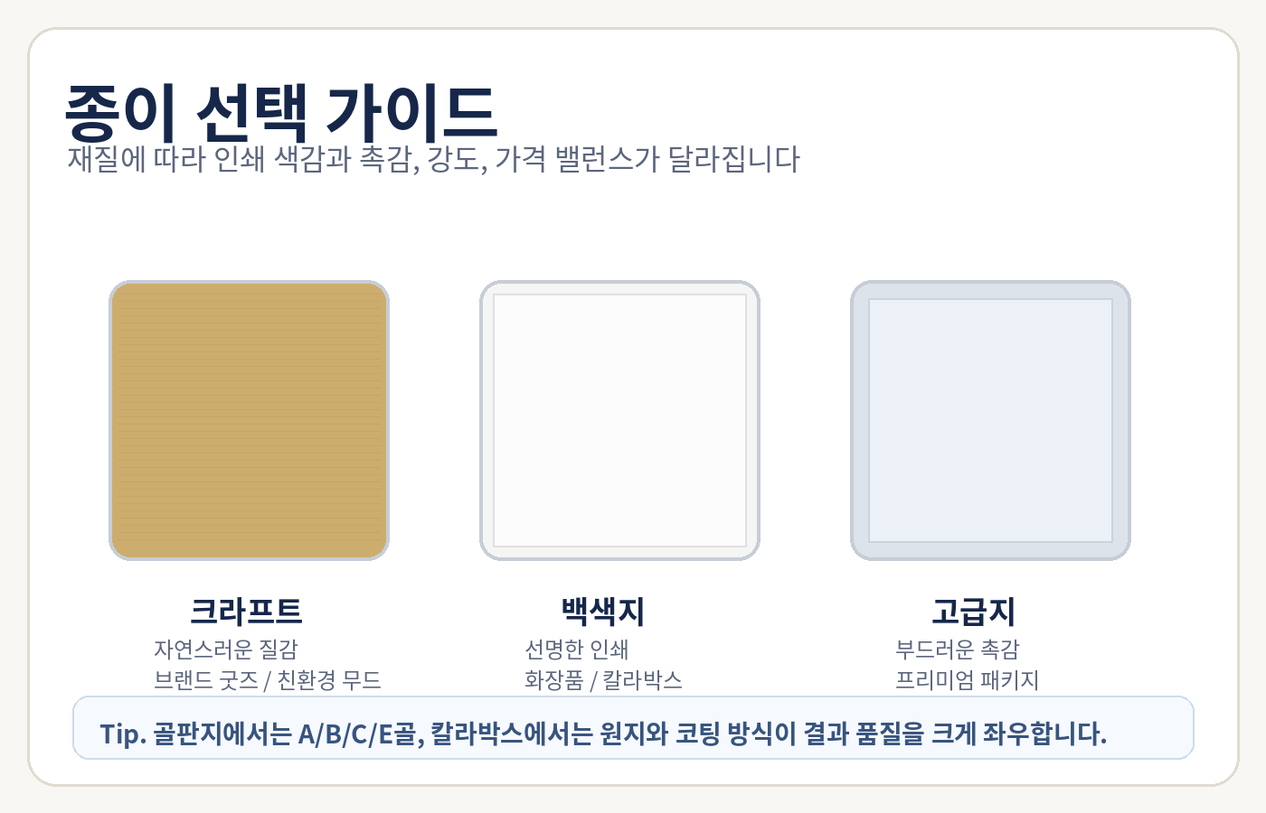
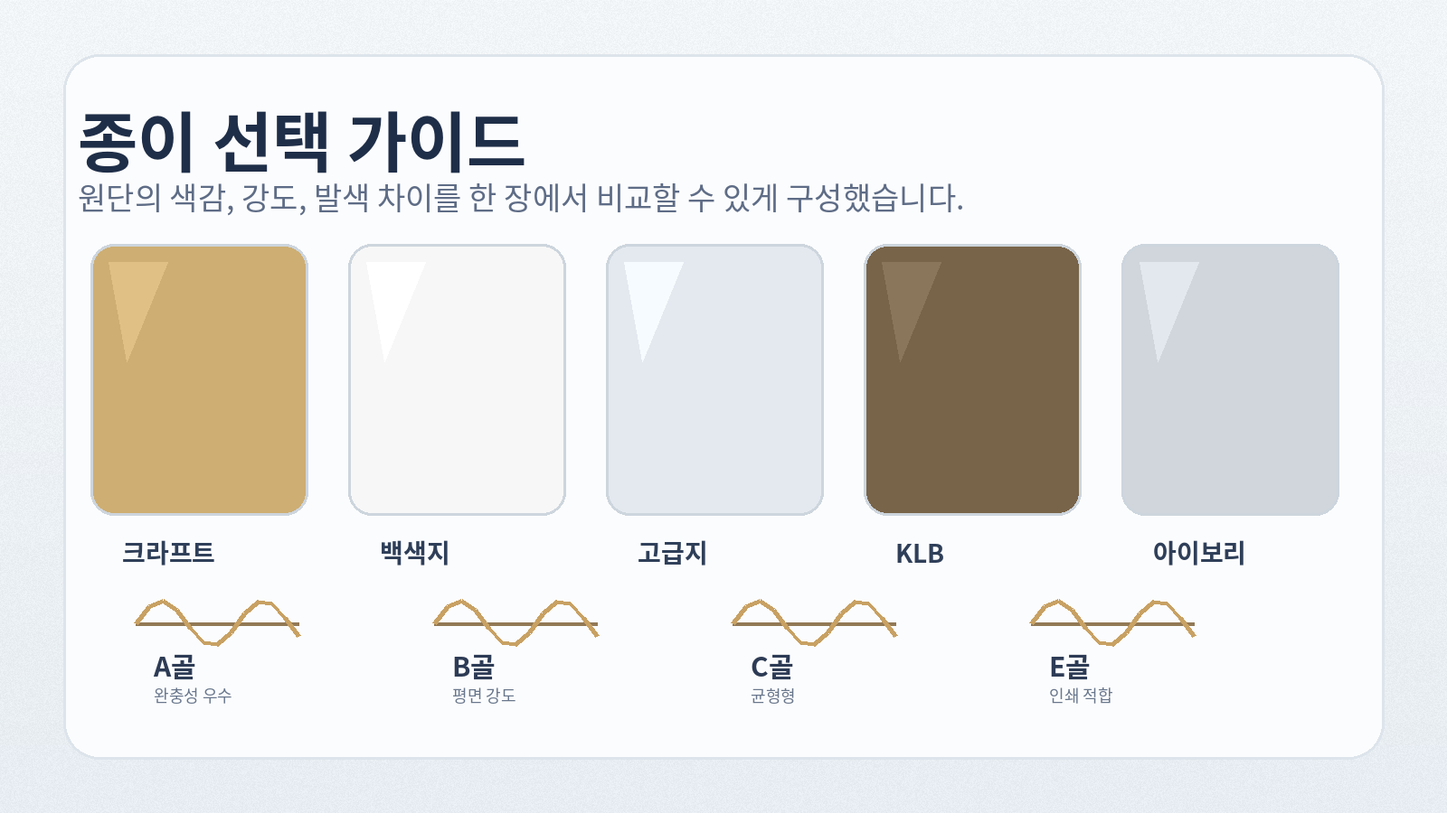
v41

Changed region(s): [[0.0, 0.0311, 0.9829, 0.9956]]

diff --git a/guide-structure.html b/guide-structure.html
@@ -1,1 +1,11 @@
-<!DOCTYPE html><html lang="ko"><head><meta charset="UTF-8"><meta name="viewport" content="width=device-width,initial-scale=1"><title>박스 구조 종류 | 에스디컴퍼니 고객지원</title><meta name="description" content="골판지 박스 구조 종류와 FEFCO 개념, 일반형·뚜껑형·다이컷 구조의 차이를 에스디컴퍼니 시선으로 정리한 가이드"><meta name="keywords" content="골판지 박스 구조, 박스 구조 종류, FEFCO 박스 구조, 다이컷 박스, 택배박스 구조"><link rel="preconnect" href="https://fonts.googleapis.com"><link rel="preconnect" href="https://fonts.gstatic.com" crossorigin><link href="https://fonts.googleapis.com/css2?family=Noto+Sans+KR:wght@400;500;700;800;900&display=swap" rel="stylesheet"><link rel="stylesheet" href="styles.css"><script type="application/ld+json">{"@context":"https://schema.org","@type":"Article","headline":"박스 구조 종류","description":"골판지 박스 구조 종류와 FEFCO 개념, 일반형·뚜껑형·다이컷 구조의 차이를 정리한 가이드","inLanguage":"ko-KR","publisher":{"@type":"Organization","name":"에스디컴퍼니"}}</script><script src="config/site-config.js"></script><script src="js/common.js"></script></head><body><main class="section guide-page"><div class="container"><h2>박스 구조 종류</h2><p class="guide-intro">박스 구조는 모양보다 먼저 <strong>제품 무게, 적재 방식, 배송 환경, 개봉 경험</strong>을 기준으로 보는 편이 실무에 더 가깝습니다. 아래 내용은 처음 주문하는 분도 빠르게 감을 잡을 수 있도록 상담형 말투로 다시 정리한 버전입니다.</p><nav class="guide-topnav"><a href="guide-structure.html" class="active">박스 구조 종류</a><a href="guide-paper.html">종이 선택 가이드</a><a href="guide-process.html">패키지 제작 과정</a><a href="support.html">고객지원 메인</a></nav><div class="guide-hero-card"><div class="hero-icon" style="font-size:42px">📦</div><div class="guide-callout" style="margin:14px 0 18px">전 세계 포장 업계에서는 <strong>FEFCO 코드</strong>라는 국제 분류 체계를 많이 참고합니다. 다만 실제 상담에서는 코드보다 “택배용인지, 진열용인지, 선물형인지”를 먼저 정리하는 쪽이 훨씬 이해가 쉽습니다.</div><img src="assets/guides/guide-structure.png" alt="골판지 박스 구조 종류 설명 이미지"></div><section class="guide-article"><article class="guide-section"><h3>골판지 박스 구조 안내</h3><p>골판지 박스는 제품의 크기, 무게, 배송 방식에 따라 다양한 구조로 제작됩니다. 특히 물류 중심인지, 매장 진열까지 고려하는지, 또는 고급 선물 포장처럼 개봉 경험이 중요한지에 따라 추천 구조가 완전히 달라집니다. 그래서 박스는 단순히 네모 상자를 고르는 일이 아니라, <strong>보호와 표현 방식을 동시에 설계하는 과정</strong>이라고 보는 것이 맞습니다.</p></article><article class="guide-section"><h3>1. 일반형 박스 (RSC / Regular Slotted Container)</h3><p>가장 많이 쓰이는 표준 구조입니다. 상하단 날개가 맞물려 접히는 전형적인 택배형 상자로, 비용과 범용성의 균형이 좋은 편입니다.</p><ul><li><strong>특징</strong>: 상하단 플랩이 접히는 가장 기본적인 구조</li><li><strong>장점</strong>: 제작 단가가 비교적 안정적이고 다양한 규격 대응이 쉽습니다.</li><li><strong>사용 예</strong>: 택배박스, 쇼핑몰 포장박스, 일반 물류 포장</li></ul></article><article class="guide-section"><h3>2. 풀오버랩 박스 (FOL)</h3><p>일반형보다 상단 덮개가 넓게 겹쳐져 상부 강도가 좋은 구조입니다. 눌림이나 적재 하중을 조금 더 신경 써야 하는 제품군에 잘 맞습니다.</p><ul><li><strong>특징</strong>: 상단 플랩이 서로 겹쳐져 압축 강도가 올라갑니다.</li><li><strong>장점</strong>: 무거운 제품이나 장거리 운송에 유리합니다.</li><li><strong>사용 예</strong>: 전자제품, 공업 부품, 수출 포장</li></ul></article><article class="guide-section"><h3>3. 하프 슬로티드 박스 (HSC)</h3><p>뚜껑이 없는 오픈형 구조입니다. 제품을 담고 빼는 일이 잦거나 진열, 보관 효율이 중요한 경우 많이 선택됩니다.</p><ul><li><strong>특징</strong>: 상단 개방형 구조</li><li><strong>장점</strong>: 제품 출입이 쉬워 작업성이 좋습니다.</li><li><strong>사용 예</strong>: 농산물 박스, 과일 박스, 물류 트레이</li></ul></article><article class="guide-section"><h3>4. 텔레스코프 박스 (뚜껑형 박스)</h3><p>상·하부가 분리되는 2피스 구조입니다. 배송용보다는 선물 포장, 의류 포장, 프리미엄 굿즈처럼 완성도와 개봉 경험을 중요하게 보는 패키지에서 자주 사용됩니다.</p><ul><li><strong>특징</strong>: 뚜껑이 덮이는 구조로 마감 인상이 깔끔합니다.</li><li><strong>장점</strong>: 일반 물류 박스보다 한층 정돈된 인상을 줍니다.</li><li><strong>사용 예</strong>: 선물박스, 의류 박스, 프리미엄 패키지</li></ul></article><article class="guide-section"><h3>5. 다이컷 박스 (맞춤형 구조)</h3><p>칼날 금형으로 원하는 형태를 절개해 조립하는 구조입니다. 손잡이, 끼움 구조, 진열용 오픈 면, 제품 고정 탭 등 맞춤 요소를 자유롭게 넣기 좋습니다.</p><ul><li><strong>특징</strong>: 자유로운 형태 설계 가능</li><li><strong>장점</strong>: 조립 편의성과 디자인 자유도가 높습니다.</li><li><strong>사용 예</strong>: 피자박스, 쇼핑몰 패키지, 제품 디스플레이 박스</li></ul></article><article class="guide-section"><h3>실무에서 구조를 고를 때 먼저 보는 기준</h3><table class="info-table"><tr><th>배송형</th><td>택배, 물류, 적재 효율이 중요하면 일반형 또는 오버랩 계열을 우선 검토합니다.</td></tr><tr><th>진열형</th><td>상단 개방, 손쉬운 진열, 제품 노출이 필요하면 HSC나 다이컷 구조를 봅니다.</td></tr><tr><th>프리미엄형</th><td>브랜드 경험과 개봉감을 살려야 하면 뚜껑형, 싸바리형, 맞춤형 구조를 고려합니다.</td></tr><tr><th>맞춤형</th><td>제품 형상이 특이하거나 별도 고정 구조가 필요하면 다이컷 설계가 유리합니다.</td></tr></table></article><article class="guide-section"><h3>검색 노출에 유리한 키워드</h3><div class="kwd-list"><span class="tag">골판지 박스 구조</span><span class="tag">박스 구조 종류</span><span class="tag">FEFCO 박스 구조</span><span class="tag">택배박스 구조</span><span class="tag">다이컷 박스</span><span class="tag">뚜껑형 박스</span></div></article></section></div></main><script>mountLayout("support.html")</script></body></html>
+<!DOCTYPE html><html lang="ko"><head><meta charset="UTF-8"><meta name="viewport" content="width=device-width,initial-scale=1"><title>박스 구조 종류 | 에스디컴퍼니 고객지원</title><meta name="description" content="골판지 박스 구조 종류와 FEFCO 개념, 일반형·뚜껑형·다이컷 구조의 차이를 에스디컴퍼니 방식으로 정리한 가이드"><meta name="keywords" content="골판지 박스 구조, 박스 구조 종류, FEFCO 박스 구조, 다이컷 박스, 택배박스 구조"><link rel="preconnect" href="https://fonts.googleapis.com"><link rel="preconnect" href="https://fonts.gstatic.com" crossorigin><link href="https://fonts.googleapis.com/css2?family=Noto+Sans+KR:wght@400;500;700;800;900&display=swap" rel="stylesheet"><link rel="stylesheet" href="styles.css"><script type="application/ld+json">{"@context":"https://schema.org","@type":"Article","headline":"박스 구조 종류","description":"골판지 박스 구조 종류와 FEFCO 개념, 일반형·뚜껑형·다이컷 구조의 차이를 에스디컴퍼니 방식으로 정리한 가이드","inLanguage":"ko-KR","publisher":{"@type":"Organization","name":"에스디컴퍼니"}}</script><script src="config/site-config.js"></script><script src="js/common.js"></script></head><body><main class="section guide-page"><div class="container"><h2>박스 구조 종류</h2><p class="guide-intro">처음 박스를 맡길 때 가장 먼저 고민되는 것은 구조입니다. 배송용인지, 진열용인지, 선물형인지에 따라 적합한 방식이 달라지기 때문에 모양보다 사용 장면부터 보는 것이 훨씬 정확합니다.</p><nav class="guide-topnav"><a href="guide-structure.html" class="active">박스 구조 종류</a><a href="guide-paper.html" >종이 선택 가이드</a><a href="guide-process.html" >패키지 제작 과정</a><a href="support.html">고객지원 메인</a></nav><div class="guide-hero-card"><div class="guide-callout" style="margin:0 0 18px">골판지 박스 구조는 단순한 모양 분류가 아니라 <strong>보호·적재·개봉 경험</strong>을 함께 설계하는 과정입니다. 아래 정리는 실무 상담에서 가장 많이 사용하는 설명 순서대로 재구성했습니다.</div><img src="assets/guides/guide-structure.png" alt="박스 구조 종류 설명 이미지"></div><section class="guide-article">
+<article class="guide-section"><h3>골판지 박스 구조 안내</h3><p>골판지 박스는 제품의 크기, 무게, 배송 방식에 따라 구조를 달리 설계합니다. 실제 현장에서는 단순히 네모 상자를 고르는 것이 아니라, <strong>얼마나 안전하게 도착해야 하는지, 어떤 방식으로 진열될지, 고객이 어떻게 개봉할지</strong>를 함께 보게 됩니다. 그래서 같은 크기의 제품도 구조 선택이 달라질 수 있습니다.</p><p>업계에서는 FEFCO 코드라는 국제 분류 체계를 참고하지만, 처음 주문하는 분께는 코드보다 <strong>사용 장면 중심</strong>으로 보는 편이 이해가 쉽습니다. 아래 구조는 상담 현장에서 설명하는 순서대로 다시 정리한 버전입니다.</p></article>
+<article class="guide-section"><h3>1. 일반형 박스 (RSC / Regular Slotted Container)</h3><p>가장 많이 쓰이는 표준 구조입니다. 상하단 날개가 맞물려 접히는 전형적인 택배형 상자로, 비용과 범용성의 균형이 좋습니다.</p><ul><li><strong>특징</strong>: 상하단 날개가 접히는 기본 구조</li><li><strong>강점</strong>: 제작 단가가 비교적 안정적이고 규격 확장이 쉽습니다.</li><li><strong>주로 쓰는 곳</strong>: 택배박스, 쇼핑몰 출고용 박스, 일반 물류 포장</li></ul></article>
+<article class="guide-section"><h3>2. 풀오버랩 박스 (FOL)</h3><p>일반형보다 상단 플랩이 겹쳐 상부 강도가 더 필요한 제품군에 잘 맞는 구조입니다. 눌림이 걱정되거나 적재가 많은 환경에서 자주 선택됩니다.</p><ul><li><strong>특징</strong>: 상단 플랩이 서로 겹치며 압축 강도를 높입니다.</li><li><strong>강점</strong>: 무게감 있는 제품, 장거리 운송 포장에 유리합니다.</li><li><strong>주로 쓰는 곳</strong>: 전자제품, 공업 부품, 수출 포장</li></ul></article>
+<article class="guide-section"><h3>3. 하프 슬로티드 박스 (HSC)</h3><p>뚜껑이 없는 오픈형 구조입니다. 제품을 담고 꺼내는 일이 많거나 진열, 보관 효율이 중요한 경우 많이 사용합니다.</p><ul><li><strong>특징</strong>: 상단이 열린 구조</li><li><strong>강점</strong>: 작업성이 좋고 내용물을 빠르게 확인할 수 있습니다.</li><li><strong>주로 쓰는 곳</strong>: 농산물 박스, 과일 박스, 물류 트레이</li></ul></article>
+<article class="guide-section"><h3>4. 텔레스코프 박스 (뚜껑형 박스)</h3><p>상단과 하단이 분리되는 2피스 구조입니다. 배송용보다 선물 포장, 의류 박스, 프리미엄 굿즈처럼 개봉 경험과 완성도를 중시하는 패키지에 잘 어울립니다.</p><ul><li><strong>특징</strong>: 뚜껑이 덮이는 구조로 마감 인상이 깔끔합니다.</li><li><strong>강점</strong>: 일반 물류 박스보다 정돈된 브랜드 인상을 만들기 좋습니다.</li><li><strong>주로 쓰는 곳</strong>: 선물박스, 의류 박스, 프리미엄 패키지</li></ul></article>
+<article class="guide-section"><h3>5. 다이컷 박스 (맞춤형 구조)</h3><p>칼날 금형으로 원하는 형태를 절개해 조립하는 구조입니다. 손잡이, 끼움 구조, 진열용 오픈 면, 제품 고정 탭 등 맞춤 요소를 설계하기 좋습니다.</p><ul><li><strong>특징</strong>: 자유로운 형태 제작 가능</li><li><strong>강점</strong>: 조립 편의성과 디자인 자유도가 높습니다.</li><li><strong>주로 쓰는 곳</strong>: 피자박스, 쇼핑몰 패키지, 제품 디스플레이 박스</li></ul></article>
+<article class="guide-section"><h3>실무 기준으로 먼저 보는 체크포인트</h3><table class="info-table"><tr><th>배송형</th><td>택배, 적재, 물류 효율이 중요하면 일반형이나 오버랩 구조를 우선 봅니다.</td></tr><tr><th>진열형</th><td>상단 개방, 내용물 노출, 매장 진열이 중요하면 HSC나 다이컷 구조가 유리합니다.</td></tr><tr><th>프리미엄형</th><td>브랜드 경험과 개봉감을 살려야 하면 뚜껑형, 싸바리형, 맞춤형 구조를 검토합니다.</td></tr><tr><th>맞춤형</th><td>제품 형상이 특이하거나 내부 고정 구조가 필요하면 다이컷 설계가 적합합니다.</td></tr></table></article>
+<article class="guide-section"><h3>자주 묻는 질문</h3><div class="faq-accordion"><details class="faq-item" open><summary>택배용 박스는 어떤 구조부터 보면 되나요?</summary><div class="faq-body">일반적으로는 RSC 계열을 먼저 검토합니다. 제품 무게가 조금 있거나 눌림 우려가 있으면 오버랩 구조까지 함께 비교하는 편이 좋습니다.</div></details><details class="faq-item"><summary>같은 크기인데 구조가 달라지면 견적도 많이 달라지나요?</summary><div class="faq-body">구조에 따라 원단 사용량, 금형 필요 여부, 조립 난이도가 달라지기 때문에 단가 차이가 생길 수 있습니다. 특히 다이컷 구조는 설계 자유도가 높은 대신 제작 조건도 함께 달라집니다.</div></details><details class="faq-item"><summary>브랜드 패키지는 왜 일반 택배박스 구조를 잘 안 쓰나요?</summary><div class="faq-body">브랜드 패키지는 제품 보호뿐 아니라 개봉 경험, 정돈된 인상, 내부 연출도 중요합니다. 그래서 뚜껑형이나 맞춤형 구조를 함께 검토하는 경우가 많습니다.</div></details></div></article>
+<article class="guide-section seo-block"><h4>검색에 자주 연결되는 키워드</h4><p>골판지 박스 구조, 박스 구조 종류, 택배박스 구조, 다이컷 박스, FEFCO 박스 구조, 뚜껑형 박스, 디스플레이 박스 같은 검색어는 실제 상담 유입과 연결되는 빈도가 높습니다. 본 페이지는 그 검색 의도에 맞춰 구조별 특징과 사용 장면을 함께 설명하도록 설계했습니다.</p><div class="inline-kws"><span>골판지 박스 구조</span><span>박스 구조 종류</span><span>FEFCO 박스 구조</span><span>택배박스 구조</span><span>다이컷 박스</span><span>뚜껑형 박스</span></div></article>
+</section></div></main><script>mountLayout("support.html")</script></body></html>

diff --git a/guide-paper.html b/guide-paper.html
@@ -1,1 +1,9 @@
-<!DOCTYPE html><html lang="ko"><head><meta charset="UTF-8"><meta name="viewport" content="width=device-width,initial-scale=1"><title>종이 선택 가이드 | 에스디컴퍼니 고객지원</title><meta name="description" content="골판지 원단 선택, 골 종류, 라이너지와 골심지 구조, 종이 등급까지 실무형으로 정리한 에스디컴퍼니 원단 가이드"><meta name="keywords" content="골판지 종류, 골판지 골 종류, 박스 원단 선택, 라이너지, 골심지, KLB"><link rel="preconnect" href="https://fonts.googleapis.com"><link rel="preconnect" href="https://fonts.gstatic.com" crossorigin><link href="https://fonts.googleapis.com/css2?family=Noto+Sans+KR:wght@400;500;700;800;900&display=swap" rel="stylesheet"><link rel="stylesheet" href="styles.css"><script type="application/ld+json">{"@context":"https://schema.org","@type":"Article","headline":"종이 선택 가이드","description":"골판지 원단 선택, 골 종류, 라이너지와 골심지 구조, 종이 등급을 정리한 가이드","inLanguage":"ko-KR","publisher":{"@type":"Organization","name":"에스디컴퍼니"}}</script><script src="config/site-config.js"></script><script src="js/common.js"></script></head><body><main class="section guide-page"><div class="container"><h2>종이 선택 가이드</h2><p class="guide-intro">같은 규격의 박스라도 원단이 달라지면 발색, 촉감, 강도, 가격 느낌이 달라집니다. 그래서 종이는 단순 옵션이 아니라 <strong>패키지 인상을 바꾸는 핵심 요소</strong>로 보는 편이 좋습니다.</p><nav class="guide-topnav"><a href="guide-structure.html">박스 구조 종류</a><a href="guide-paper.html" class="active">종이 선택 가이드</a><a href="guide-process.html">패키지 제작 과정</a><a href="support.html">고객지원 메인</a></nav><div class="guide-hero-card"><div class="hero-icon" style="font-size:42px">📄</div><div class="guide-callout" style="margin:14px 0 18px">골판지 박스의 품질은 표면지, 골심지, 골 형태에 따라 달라집니다. 칼라박스는 인쇄 표현이 중요하고, 골판지는 강도와 완충성이 더 중요해지는 경우가 많습니다.</div><img src="assets/guides/guide-paper.png" alt="골판지 원단과 종이 선택 가이드 이미지"></div><section class="guide-article"><article class="guide-section"><h3>골판지 원단 선택 가이드</h3><p>골판지는 단순 종이 한 장이 아니라, 평평한 라이너지와 물결 모양의 골심지가 결합된 구조입니다. 이 구조 덕분에 가볍지만 생각보다 높은 강도를 확보할 수 있고, 인쇄 품질과 보호 성능의 균형을 맞출 수 있습니다.</p></article><article class="guide-section"><h3>1. 골판지 기본 구조</h3><ul><li><strong>라이너지(표면지)</strong> : 외부에 보이는 종이로, 색감과 질감, 인쇄 결과에 직접 영향을 줍니다.</li><li><strong>골심지(Flute)</strong> : 물결 구조를 형성하며 충격 흡수와 강성 확보 역할을 합니다.</li><li><strong>접착층</strong> : 전분계 접착을 기반으로 라이너지와 골심지를 결합합니다.</li></ul><p>즉, 박스는 ‘두꺼운 종이’가 아니라 <strong>구조적으로 버티는 종이</strong>라고 이해하면 쉽습니다.</p></article><article class="guide-section"><h3>2. 골 종류 (Flute)</h3><table class="info-table"><tr><th>A골</th><td>두께가 비교적 크고 완충성이 좋아 농산물, 충격 보호용 포장에 많이 씁니다.</td></tr><tr><th>B골</th><td>평면 강도가 좋아 통조림, 식품류, 일반 상자에 안정적으로 적용됩니다.</td></tr><tr><th>C골</th><td>A와 B의 중간 성격으로 일반 택배 박스에서 자주 보이는 균형형 구조입니다.</td></tr><tr><th>E골</th><td>얇고 표면이 고르게 나와 인쇄 적합성이 좋아 칼라박스에 유리합니다.</td></tr></table><p>골의 높이가 높을수록 보호 성능에 유리하고, 얇을수록 인쇄 표현에는 유리한 편입니다.</p></article><article class="guide-section"><h3>3. 골판지 두께와 구조</h3><table class="info-table"><tr><th>편면골판지</th><td>완충재 성격이 강한 구조로 보조 패드나 보호용으로 씁니다.</td></tr><tr><th>양면골판지</th><td>가장 일반적인 상자 구조로 택배 및 일반 포장에 폭넓게 쓰입니다.</td></tr><tr><th>이중골판지</th><td>무거운 제품, 장거리 운송, 강도 확보가 필요한 포장에 적합합니다.</td></tr><tr><th>삼중골판지</th><td>수출 포장이나 산업용 중량물 포장에서 검토되는 고강도 구조입니다.</td></tr></table></article><article class="guide-section"><h3>4. 종이 등급</h3><p>표면지의 대표 등급으로는 <strong>KLB, SK, K, B, S</strong> 등이 자주 언급됩니다. 등급이 올라갈수록 강도와 내구성이 좋아지는 경우가 많지만, 실제 선택은 제품 중량, 보관 환경, 예산에 따라 달라집니다. 단순히 높은 등급이 무조건 정답인 것은 아니며, <strong>용도에 맞는 균형</strong>이 더 중요합니다.</p></article><article class="guide-section"><h3>실무 팁</h3><div class="guide-callout">칼라박스는 “인쇄 품질”이 먼저, 택배박스는 “강도와 원단 효율”이 먼저입니다. 같은 박스라도 용도에 따라 종이 선택 기준이 달라집니다.</div></article><article class="guide-section"><h3>검색 노출에 유리한 키워드</h3><div class="kwd-list"><span class="tag">골판지 종류</span><span class="tag">골판지 골 종류</span><span class="tag">박스 원단 선택</span><span class="tag">라이너지</span><span class="tag">골심지</span><span class="tag">KLB 원단</span></div></article></section></div></main><script>mountLayout("support.html")</script></body></html>
+<!DOCTYPE html><html lang="ko"><head><meta charset="UTF-8"><meta name="viewport" content="width=device-width,initial-scale=1"><title>종이 선택 가이드 | 에스디컴퍼니 고객지원</title><meta name="description" content="골판지 원단과 표면지, 골 종류, 라이너지와 골심지 차이를 이해하기 쉽게 정리한 종이 선택 가이드"><meta name="keywords" content="골판지 종류, 골판지 골 종류, 박스 원단 선택, 표면지 종류, 라이너지"><link rel="preconnect" href="https://fonts.googleapis.com"><link rel="preconnect" href="https://fonts.gstatic.com" crossorigin><link href="https://fonts.googleapis.com/css2?family=Noto+Sans+KR:wght@400;500;700;800;900&display=swap" rel="stylesheet"><link rel="stylesheet" href="styles.css"><script type="application/ld+json">{"@context":"https://schema.org","@type":"Article","headline":"종이 선택 가이드","description":"골판지 원단과 표면지, 골 종류, 라이너지와 골심지 차이를 이해하기 쉽게 정리한 종이 선택 가이드","inLanguage":"ko-KR","publisher":{"@type":"Organization","name":"에스디컴퍼니"}}</script><script src="config/site-config.js"></script><script src="js/common.js"></script></head><body><main class="section guide-page"><div class="container"><h2>종이 선택 가이드</h2><p class="guide-intro">박스를 보며 “왜 같은 상자인데 느낌이 다르지?”라고 느끼는 이유는 대부분 재질 차이에서 시작됩니다. 표면지와 골 구조를 이해하면 단가와 품질을 함께 보는 눈이 생깁니다.</p><nav class="guide-topnav"><a href="guide-structure.html" >박스 구조 종류</a><a href="guide-paper.html" class="active">종이 선택 가이드</a><a href="guide-process.html" >패키지 제작 과정</a><a href="support.html">고객지원 메인</a></nav><div class="guide-hero-card"><div class="guide-callout" style="margin:0 0 18px">원단 선택은 박스 강도만 결정하지 않습니다. <strong>인쇄 발색, 촉감, 브랜드 인상, 보관 안정성</strong>까지 함께 좌우하기 때문에 재질을 먼저 이해해두는 것이 좋습니다.</div><img src="assets/guides/guide-paper.png" alt="종이 선택 가이드 설명 이미지"></div><section class="guide-article">
+<article class="guide-section"><h3>골판지 원단 선택 가이드</h3><p>골판지 박스의 품질은 표면지, 골심지, 골 형태에 따라 결정됩니다. 같은 박스 구조라도 어떤 종이를 쓰느냐에 따라 <strong>강도, 발색, 촉감, 접힘 느낌</strong>이 달라집니다. 그래서 원단 선택은 단순한 부자재 결정이 아니라, 박스의 성격을 정하는 중요한 과정입니다.</p><p>특히 브랜드 패키지에서는 “하얗고 매끈한 인상”이 필요할 수도 있고, 반대로 “내추럴하고 거친 질감”이 더 잘 어울릴 수도 있습니다. 이 페이지는 그런 선택 기준을 실무 언어로 풀어 정리했습니다.</p></article>
+<article class="guide-section"><h3>1. 골판지 기본 구조</h3><p>골판지는 보통 세 요소로 이루어집니다.</p><table class="info-table"><tr><th>라이너지</th><td>박스 바깥면과 안쪽면을 구성하는 평평한 종이입니다. 표면 인상과 강도에 큰 영향을 줍니다.</td></tr><tr><th>골심지</th><td>물결 모양 구조를 만드는 부분으로, 충격 흡수와 완충 역할을 담당합니다.</td></tr><tr><th>접착층</th><td>전분 계열 접착제로 각 층을 결합해 가볍지만 견고한 구조를 만듭니다.</td></tr></table></article>
+<article class="guide-section"><h3>2. 골 종류 (Flute)</h3><p>골 높이와 구조가 달라지면 강도와 인쇄 적합성이 달라집니다. 너무 두꺼우면 완충은 좋아지지만 인쇄 정밀도는 떨어질 수 있고, 너무 얇으면 인쇄는 선명하지만 보호력은 약해질 수 있습니다.</p><table class="info-table"><tr><th>A골</th><td>두께가 상대적으로 크고 완충성이 좋아 충격 보호가 중요한 농산물, 유리병, 완충형 포장에 많이 쓰입니다.</td></tr><tr><th>B골</th><td>평면 강도가 좋아 식품, 통조림, 내구성 중심의 일반 포장에 잘 맞습니다.</td></tr><tr><th>C골</th><td>A골과 B골의 중간 성격으로 택배 박스 등 일반 용도에 폭넓게 사용됩니다.</td></tr><tr><th>E골</th><td>얇고 표면 표현이 깔끔해 칼라 인쇄 박스나 소형 패키지에 적합합니다.</td></tr></table></article>
+<article class="guide-section"><h3>3. 골판지 두께 구조</h3><ul><li><strong>편면골판지</strong> : 완충재나 보조 보호재 용도로 사용됩니다.</li><li><strong>양면골판지</strong> : 가장 일반적인 박스 구조입니다.</li><li><strong>이중골판지</strong> : 무게가 있는 제품이나 수출용 포장에 자주 선택됩니다.</li><li><strong>삼중골판지</strong> : 중량 제품, 장거리 수출, 산업 포장에 적합합니다.</li></ul></article>
+<article class="guide-section"><h3>4. 종이 등급과 표면지 선택</h3><p>대표적으로 KLB, SK, K, B, S 등급이 언급됩니다. 일반적으로는 등급이 높을수록 강도와 내구성이 좋아지는 경향이 있지만, 실제 선택은 제품 특성과 예산, 인쇄 목적까지 함께 봐야 합니다.</p><p>예를 들어 크라프트 표면지는 내추럴한 인상을 주고, 백색지는 선명한 인쇄와 깨끗한 이미지 연출에 유리합니다. 같은 디자인도 어떤 표면지를 선택하느냐에 따라 결과물의 분위기가 완전히 달라질 수 있습니다.</p></article>
+<article class="guide-section"><h3>종이 선택 실무 팁</h3><div class="faq-accordion"><details class="faq-item" open><summary>택배용 박스는 무조건 두꺼운 골이 좋나요?</summary><div class="faq-body">꼭 그렇지는 않습니다. 제품 무게, 적재 방식, 파손 가능성, 포장 단가를 함께 봐야 합니다. 과도하게 두꺼우면 비용과 보관 효율이 떨어질 수 있습니다.</div></details><details class="faq-item"><summary>인쇄가 중요한 박스는 어떤 쪽이 유리한가요?</summary><div class="faq-body">세밀한 인쇄와 선명한 색 표현이 중요하면 표면이 매끈하고 얇은 골 구조가 유리할 수 있습니다. 특히 칼라박스 계열은 E골이나 합지 구조를 함께 검토하는 경우가 많습니다.</div></details><details class="faq-item"><summary>크라프트와 백색지 중 어떤 것이 더 좋나요?</summary><div class="faq-body">좋고 나쁨보다 방향의 차이에 가깝습니다. 크라프트는 자연스럽고 편안한 분위기, 백색지는 깔끔하고 선명한 인상에 더 어울립니다.</div></details></div></article>
+<article class="guide-section seo-block"><h4>검색에 자주 연결되는 키워드</h4><p>골판지 종류, 골판지 골 종류, 박스 원단 선택, 크라프트 박스, 라이너지, 표면지 종류, E골 박스, KLB 라이너 같은 검색어는 재질과 원단 선택이 필요한 사용자의 질문과 직접 연결됩니다. 본 페이지는 그런 검색 의도를 실무형 설명으로 풀어낸 안내 페이지입니다.</p><div class="inline-kws"><span>골판지 종류</span><span>골판지 골 종류</span><span>박스 원단 선택</span><span>크라프트 박스</span><span>라이너지</span><span>E골 박스</span></div></article>
+</section></div></main><script>mountLayout("support.html")</script></body></html>

diff --git a/guide-process.html b/guide-process.html
@@ -1,1 +1,12 @@
-<!DOCTYPE html><html lang="ko"><head><meta charset="UTF-8"><meta name="viewport" content="width=device-width,initial-scale=1"><title>패키지 제작 과정 | 에스디컴퍼니 고객지원</title><meta name="description" content="박스 제작 과정과 패키지 제작 프로세스를 상담, 설계, 인쇄, 금형, 가공, 납품 순서대로 정리한 에스디컴퍼니 가이드"><meta name="keywords" content="박스 제작 과정, 패키지 제작 프로세스, 박스 제작 공정, 패키지 납품"><link rel="preconnect" href="https://fonts.googleapis.com"><link rel="preconnect" href="https://fonts.gstatic.com" crossorigin><link href="https://fonts.googleapis.com/css2?family=Noto+Sans+KR:wght@400;500;700;800;900&display=swap" rel="stylesheet"><link rel="stylesheet" href="styles.css"><script type="application/ld+json">{"@context":"https://schema.org","@type":"Article","headline":"패키지 제작 과정","description":"상담부터 납품까지 이어지는 박스 제작 공정을 정리한 가이드","inLanguage":"ko-KR","publisher":{"@type":"Organization","name":"에스디컴퍼니"}}</script><script src="config/site-config.js"></script><script src="js/common.js"></script></head><body><main class="section guide-page"><div class="container"><h2>패키지 제작 과정</h2><p class="guide-intro">박스 제작은 단순히 인쇄 한 번으로 끝나지 않습니다. 구조와 원단이 정리되고, 금형과 가공 조건이 맞아야 최종 결과물이 안정적으로 나옵니다. 아래 순서는 실무에서 가장 많이 사용하는 표준 흐름입니다.</p><nav class="guide-topnav"><a href="guide-structure.html">박스 구조 종류</a><a href="guide-paper.html">종이 선택 가이드</a><a href="guide-process.html" class="active">패키지 제작 과정</a><a href="support.html">고객지원 메인</a></nav><div class="guide-hero-card"><div class="hero-icon" style="font-size:42px">🛠</div><div class="guide-callout" style="margin:14px 0 18px">일정이 촉박할수록 구조 확정, 인쇄 방식, 금형 여부를 먼저 정리하는 것이 중요합니다. 이 세 가지가 늦어지면 제작 전체가 함께 밀리는 경우가 많습니다.</div><img src="assets/guides/guide-process.png" alt="패키지 제작 과정 단계 설명 이미지"></div><section class="guide-article"><article class="guide-section"><h3>박스 제작 프로세스</h3><p>박스 제작은 보통 <strong>상담 및 견적 → 구조 설계 → 원단 준비 → 인쇄 → 금형 제작 → 가공 및 접합 → 검수 및 납품</strong> 순으로 이어집니다. 브랜드 패키지의 경우 여기에 샘플 검토와 색상 수정 단계가 추가되기도 합니다.</p></article><article class="guide-section"><h3>1단계 : 상담 및 견적</h3><ul><li>제품 크기와 포장 방식 확인</li><li>목표 수량과 출고 일정 정리</li><li>인쇄 여부, 사용 목적, 유통 방식 확인</li></ul><p>이 단계에서 정보가 많이 빠질수록 견적 오차가 커집니다. 최소한 제품 규격, 수량, 배송 방식은 먼저 정리해 두는 것이 좋습니다.</p></article><article class="guide-section"><h3>2단계 : 구조 설계</h3><p>제품에 맞는 박스 구조를 설계합니다. CAD 설계, 샘플 제작, 조립 테스트를 거치며 실제 사용성이 맞는지 확인합니다.</p><ul><li><strong>CAD 설계</strong> : 치수와 접힘 구조를 정확히 잡습니다.</li><li><strong>샘플 제작</strong> : 실제 조립성과 제품 적합성을 확인합니다.</li><li><strong>구조 테스트</strong> : 개봉 동선, 고정 방식, 보호력 등을 체크합니다.</li></ul></article><article class="guide-section"><h3>3단계 : 원단 생산</h3><p>골판지 박스는 라이너지와 골심지를 결합해 원단을 만듭니다. 칼라박스는 선택한 원지와 코팅 여부에 따라 이후 인쇄 결과가 달라집니다.</p></article><article class="guide-section"><h3>4단계 : 인쇄</h3><p>디자인 요소를 실제 원단 위에 올리는 단계입니다. 제품 성격과 수량에 따라 플렉소, 오프셋, 디지털 인쇄 등 적합한 방식이 달라집니다.</p><ul><li>플렉소 인쇄 : 골판지 물류박스에 많이 쓰는 방식</li><li>오프셋 인쇄 : 표현력이 중요한 칼라박스에 유리</li><li>디지털 인쇄 : 소량·다품종 대응에 유리</li></ul></article><article class="guide-section"><h3>5단계 : 금형 제작</h3><p>맞춤 구조라면 칼날 금형을 제작합니다. 구조가 복잡할수록 금형 완성도가 조립성과 생산성에 직접 영향을 줍니다.</p></article><article class="guide-section"><h3>6단계 : 가공 및 접합</h3><p>인쇄 후에는 다이컷, 접착, 스테이플, 타공, 접지 같은 후가공이 이어집니다. 이 공정에서 조립 편의와 최종 완성도가 결정됩니다.</p></article><article class="guide-section"><h3>7단계 : 품질 검사 및 납품</h3><ul><li>강도 검사</li><li>인쇄 상태 검사</li><li>수량·포장·출고 점검</li></ul><p>최종 검수는 단순 불량 체크가 아니라 실제 납품 안정성을 확인하는 마지막 단계입니다.</p></article><article class="guide-section"><h3>검색 노출에 유리한 키워드</h3><div class="kwd-list"><span class="tag">박스 제작 과정</span><span class="tag">패키지 제작 프로세스</span><span class="tag">박스 제작 공정</span><span class="tag">금형 제작</span><span class="tag">다이컷 공정</span><span class="tag">패키지 납품</span></div></article></section></div></main><script>mountLayout("support.html")</script></body></html>
+<!DOCTYPE html><html lang="ko"><head><meta charset="UTF-8"><meta name="viewport" content="width=device-width,initial-scale=1"><title>패키지 제작 과정 | 에스디컴퍼니 고객지원</title><meta name="description" content="상담부터 설계, 인쇄, 금형, 가공, 출고까지 패키지 제작 흐름을 단계별로 정리한 에스디컴퍼니 제작 과정 가이드"><meta name="keywords" content="박스 제작 과정, 패키지 제작 프로세스, 박스 제작 공정, 포장 제작 절차"><link rel="preconnect" href="https://fonts.googleapis.com"><link rel="preconnect" href="https://fonts.gstatic.com" crossorigin><link href="https://fonts.googleapis.com/css2?family=Noto+Sans+KR:wght@400;500;700;800;900&display=swap" rel="stylesheet"><link rel="stylesheet" href="styles.css"><script type="application/ld+json">{"@context":"https://schema.org","@type":"Article","headline":"패키지 제작 과정","description":"상담부터 설계, 인쇄, 금형, 가공, 출고까지 패키지 제작 흐름을 단계별로 정리한 에스디컴퍼니 제작 과정 가이드","inLanguage":"ko-KR","publisher":{"@type":"Organization","name":"에스디컴퍼니"}}</script><script src="config/site-config.js"></script><script src="js/common.js"></script></head><body><main class="section guide-page"><div class="container"><h2>패키지 제작 과정</h2><p class="guide-intro">상담 후 바로 인쇄에 들어가는 것처럼 보이지만, 실제 제작은 구조 검토와 원단 준비, 금형, 가공, 검수 단계를 거쳐 완성됩니다. 흐름을 알면 납기와 준비 자료도 훨씬 잘 정리됩니다.</p><nav class="guide-topnav"><a href="guide-structure.html" >박스 구조 종류</a><a href="guide-paper.html" >종이 선택 가이드</a><a href="guide-process.html" class="active">패키지 제작 과정</a><a href="support.html">고객지원 메인</a></nav><div class="guide-hero-card"><div class="guide-callout" style="margin:0 0 18px">패키지 제작은 단순한 주문이 아니라 <strong>상담 → 설계 → 생산 → 인쇄 → 가공 → 납품</strong>으로 이어지는 단계형 작업입니다. 각 단계를 알고 있으면 견적 문의도 훨씬 정확해집니다.</div><img src="assets/guides/guide-process.png" alt="패키지 제작 과정 설명 이미지"></div><section class="guide-article">
+<article class="guide-section"><h3>박스 제작 프로세스</h3><p>패키지 제작은 단순히 인쇄 후 접착하는 과정이 아니라, 상담과 구조 검토, 원단 준비, 인쇄 방식 결정, 금형 제작, 가공, 납품까지 여러 단계를 거쳐 진행됩니다. 일정이 길어지는 이유도 대부분 이 중간 단계에서 결정됩니다.</p><p>그래서 제작을 맡기기 전에는 “언제 완성되나요?”보다 <strong>어떤 정보가 먼저 확정되어야 다음 단계로 넘어갈 수 있는지</strong>를 이해하는 것이 더 중요합니다.</p></article>
+<article class="guide-section"><h3>1단계 : 상담 및 견적</h3><ul><li>제품 크기 확인</li><li>예상 수량 및 재질 방향 정리</li><li>인쇄 여부와 사용 목적 확인</li></ul><p>이 단계에서 자료가 명확할수록 전체 제작 일정이 짧아집니다.</p></article>
+<article class="guide-section"><h3>2단계 : 구조 설계</h3><p>제품에 맞는 박스 구조를 검토하는 단계입니다. 필요에 따라 CAD 설계, 샘플 제작, 구조 테스트가 함께 진행됩니다. 특히 맞춤형 구조나 고정 탭이 필요한 경우 이 단계가 중요합니다.</p></article>
+<article class="guide-section"><h3>3단계 : 원단 생산 및 준비</h3><p>골판지 박스라면 라이너지와 골심지를 결합한 원단을 준비하고, 칼라박스라면 인쇄용 지류와 합지 조건을 확정합니다. 구조와 재질이 함께 맞아야 실제 결과가 안정적으로 나옵니다.</p></article>
+<article class="guide-section"><h3>4단계 : 인쇄</h3><p>대표적인 인쇄 방식은 플렉소 인쇄, 오프셋 인쇄, 디지털 인쇄가 있습니다. 제품 특성과 수량, 표현 정밀도에 따라 적합한 방식이 달라집니다.</p><table class="info-table"><tr><th>플렉소 인쇄</th><td>골판지 출고용 박스에 많이 쓰이며, 대량 생산에 유리합니다.</td></tr><tr><th>오프셋 인쇄</th><td>디자인 표현과 발색이 중요할 때 많이 사용됩니다.</td></tr><tr><th>디지털 인쇄</th><td>소량 제작이나 빠른 테스트 제작에 유용합니다.</td></tr></table></article>
+<article class="guide-section"><h3>5단계 : 금형 제작</h3><p>박스 구조에 맞는 칼날 금형을 제작합니다. 일반 RSC 구조는 비교적 단순하지만, 다이컷 박스나 맞춤형 구조는 금형 단계가 결과 품질을 크게 좌우합니다.</p></article>
+<article class="guide-section"><h3>6단계 : 가공 및 접합</h3><ul><li>다이컷</li><li>접착</li><li>스테이플 또는 보강</li></ul><p>구조에 따라 접착 라인과 접는 순서, 조립성이 달라지므로 마지막 완성도를 좌우하는 공정입니다.</p></article>
+<article class="guide-section"><h3>7단계 : 품질 검사 및 납품</h3><ul><li>강도 검사</li><li>인쇄 상태 확인</li><li>포장 후 출고</li></ul><p>이 단계에서는 단순히 제품을 보내는 것이 아니라, 납품 방식과 적재 조건까지 함께 확인하는 것이 중요합니다.</p></article>
+<article class="guide-section"><h3>자주 묻는 질문</h3><div class="faq-accordion"><details class="faq-item" open><summary>샘플 제작은 언제 필요한가요?</summary><div class="faq-body">맞춤 구조이거나 개봉 방식, 내부 고정, 크기 검토가 중요한 경우 샘플을 먼저 보는 편이 안전합니다. 특히 첫 제작이거나 고가 제품일수록 샘플 확인이 도움이 됩니다.</div></details><details class="faq-item"><summary>인쇄와 금형 중 무엇이 먼저 정해지나요?</summary><div class="faq-body">대체로 구조와 규격이 먼저 정리된 뒤 인쇄판과 금형 제작이 이어집니다. 구조가 확정되지 않으면 후속 공정도 흔들리기 쉽습니다.</div></details><details class="faq-item"><summary>납기는 왜 수량만으로 계산되지 않나요?</summary><div class="faq-body">원단 준비, 인쇄 방식, 금형 여부, 후가공, 검수, 납품 일정이 모두 함께 반영되기 때문입니다. 같은 수량이라도 구조와 공정에 따라 납기는 달라집니다.</div></details></div></article>
+<article class="guide-section seo-block"><h4>검색에 자주 연결되는 키워드</h4><p>박스 제작 과정, 패키지 제작 프로세스, 박스 제작 공정, 포장 제작 절차, 골판지 박스 제작 순서, 샘플 제작, 금형 제작 같은 키워드는 실제 견적 전 검색 수요가 높은 주제입니다. 본 페이지는 그 검색 의도에 맞춰 공정 흐름을 실제 제작 순서로 재구성했습니다.</p><div class="inline-kws"><span>박스 제작 과정</span><span>패키지 제작 프로세스</span><span>박스 제작 공정</span><span>포장 제작 절차</span><span>샘플 제작</span><span>금형 제작</span></div></article>
+</section></div></main><script>mountLayout("support.html")</script></body></html>

diff --git a/support.html b/support.html
@@ -1,1 +1,1 @@
-<!DOCTYPE html><html lang="ko"><head><meta charset="UTF-8"><meta name="viewport" content="width=device-width,initial-scale=1"><title>고객지원 | 에스디컴퍼니</title><meta name="description" content="박스 구조 종류, 종이 선택 가이드, 패키지 제작 과정을 한 번에 보는 에스디컴퍼니 고객지원 페이지"><meta name="keywords" content="고객지원, 박스 구조 종류, 종이 선택 가이드, 패키지 제작 과정, 골판지 박스 구조, 패키지 제작 공정"><link rel="preconnect" href="https://fonts.googleapis.com"><link rel="preconnect" href="https://fonts.gstatic.com" crossorigin><link href="https://fonts.googleapis.com/css2?family=Noto+Sans+KR:wght@400;500;700;800;900&display=swap" rel="stylesheet"><link rel="stylesheet" href="styles.css"><script type="application/ld+json">{"@context":"https://schema.org","@type":"CollectionPage","name":"에스디컴퍼니 고객지원","description":"박스 구조, 재질 선택, 제작 공정을 이해하기 위한 고객지원 허브","mainEntity":[{"@type":"Article","name":"박스 구조 종류"},{"@type":"Article","name":"종이 선택 가이드"},{"@type":"Article","name":"패키지 제작 과정"}]}</script><script src="config/site-config.js"></script><script src="config/site-data.js"></script><script src="js/common.js"></script></head><body><main class="section" style="padding-top:34px"><div class="container"><h2>고객지원</h2><p class="desc">처음 포장을 맡기는 분이 가장 헷갈려하는 부분은 보통 세 가지입니다. <strong>어떤 구조를 고를지, 어떤 원단이 맞는지, 제작이 어떤 순서로 진행되는지</strong>입니다. 이 페이지는 그 세 가지를 상담 현장 기준으로 다시 풀어 정리한 실전형 안내 허브입니다.</p><div class="support-grid"><a class="support-card" href="guide-structure.html"><div class="preview"><img src="assets/guides/guide-structure.png" alt="박스 구조 종류 미리보기"></div><div class="body"><h3>박스 구조 종류</h3><p>기본형 상자, 덮개형, 트레이형, 맞춤 구조까지 실제 출고 환경과 제품 성격에 맞춰 어떤 구조를 고르면 되는지 이해하기 쉽게 풀었습니다.</p></div></a><a class="support-card" href="guide-paper.html"><div class="preview"><img src="assets/guides/guide-paper.png" alt="종이 선택 가이드 미리보기"></div><div class="body"><h3>종이 선택 가이드</h3><p>원단의 촉감, 인쇄 발색, 강도 차이를 실무 관점에서 비교해보도록 구성했습니다. 같은 박스라도 재질 선택에 따라 결과 인상이 크게 달라집니다.</p></div></a><a class="support-card" href="guide-process.html"><div class="preview"><img src="assets/guides/guide-process.png" alt="패키지 제작 과정 미리보기"></div><div class="body"><h3>패키지 제작 과정</h3><p>상담 이후 어떤 단계로 제작이 이어지는지, 어느 시점에서 샘플과 금형, 인쇄 방식이 결정되는지 흐름 중심으로 설명합니다.</p></div></a></div><section class="guide-article"><article class="guide-section"><h3>이 페이지에서 바로 확인할 수 있는 내용</h3><div class="step-timeline"><div class="step-card"><div class="num">1</div><h5>박스 구조 파악</h5><p>배송용인지 진열용인지, 프리미엄 패키지인지 먼저 나누어 제품에 맞는 구조를 빠르게 좁힙니다.</p></div><div class="step-card"><div class="num">2</div><h5>원단/골 선택</h5><p>표면지, 라이너지, 골 높이에 따라 발색과 강도, 사용감이 어떻게 달라지는지 비교합니다.</p></div><div class="step-card"><div class="num">3</div><h5>제작 공정 이해</h5><p>상담에서 출고까지 이어지는 전체 흐름을 미리 알 수 있어 일정과 준비 자료를 정리하기 쉬워집니다.</p></div><div class="step-card"><div class="num">4</div><h5>상담 전 체크</h5><p>제품 크기, 예상 수량, 배송 방식, 인쇄 여부만 미리 체크해도 상담 속도와 정확도가 좋아집니다.</p></div></div></article><article class="guide-section"><h3>문의 안내</h3><p>현재 고객지원은 게시판 대신 이메일 상담 중심으로 운영됩니다. 구조 추천, 원단 선택, 샘플 가능 여부, 인쇄 방식, 납기 검토가 필요하면 아래 메일로 바로 문의하실 수 있습니다.</p><div class="guide-callout"><strong>문의 메일:</strong> sales@box.re.kr<br>제품 크기, 목표 수량, 사용 목적, 인쇄 유무, 참고 이미지를 함께 보내주시면 검토 속도가 빨라집니다.</div></article></section></div></main><script>mountLayout("support.html")</script></body></html>
+<!DOCTYPE html><html lang="ko"><head><meta charset="UTF-8"><meta name="viewport" content="width=device-width,initial-scale=1"><title>고객지원 | 에스디컴퍼니</title><meta name="description" content="박스 구조 종류, 종이 선택, 패키지 제작 과정을 처음 맡기는 분도 쉽게 이해할 수 있게 정리한 에스디컴퍼니 고객지원 페이지입니다."><meta name="keywords" content="고객지원, 박스 구조 종류, 종이 선택 가이드, 패키지 제작 과정, 골판지 박스 구조, 패키지 제작 공정, 박스 원단 선택"><link rel="preconnect" href="https://fonts.googleapis.com"><link rel="preconnect" href="https://fonts.gstatic.com" crossorigin><link href="https://fonts.googleapis.com/css2?family=Noto+Sans+KR:wght@400;500;700;800;900&display=swap" rel="stylesheet"><link rel="stylesheet" href="styles.css"><script type="application/ld+json">{"@context":"https://schema.org","@type":"CollectionPage","name":"에스디컴퍼니 고객지원","description":"박스 구조, 재질 선택, 제작 공정을 이해하기 위한 고객지원 허브","mainEntity":[{"@type":"Article","name":"박스 구조 종류"},{"@type":"Article","name":"종이 선택 가이드"},{"@type":"Article","name":"패키지 제작 과정"}]}</script><script src="config/site-config.js"></script><script src="config/site-data.js"></script><script src="js/common.js"></script></head><body><main class="section" style="padding-top:34px"><div class="container"><h2>고객지원</h2><p class="desc">처음 의뢰할 때 가장 자주 막히는 지점은 보통 세 군데입니다. <strong>어떤 박스 구조를 골라야 하는지, 어떤 종이가 제품 성격과 맞는지, 제작이 어떤 순서로 진행되는지</strong>입니다. 에스디컴퍼니는 이 세 가지를 상담 현장에서 설명하듯 다시 풀어, 처음 보시는 분도 빠르게 이해할 수 있도록 정리했습니다.</p><div class="support-lead-grid"><div class="support-note"><strong>무조건 어려운 용어부터 보실 필요는 없습니다.</strong><br>이 페이지는 “택배용인지, 진열형인지, 선물형인지”처럼 실제 선택 기준부터 출발합니다. 박스를 처음 맡기는 브랜드나 쇼핑몰 운영자, 식품 제조사, 병·의원·화장품 업체처럼 포장 경험이 많지 않은 분도 읽고 바로 문의로 이어질 수 있게 구성했습니다.</div><div class="support-note"><strong>빠르게 보시려면 이렇게 확인하세요.</strong><br>① 구조가 먼저 궁금하면 <b>박스 구조 종류</b><br>② 원단과 인쇄 느낌이 궁금하면 <b>종이 선택 가이드</b><br>③ 견적 전 준비 흐름이 궁금하면 <b>패키지 제작 과정</b><br>을 먼저 보시면 됩니다.</div></div><div class="support-grid"><a class="support-card" href="guide-structure.html"><div class="preview"><img src="assets/guides/guide-structure.png" alt="골판지 박스 구조 종류 SEO 설명 이미지"></div><div class="body"><h3>박스 구조 종류</h3><p>택배형, 진열형, 덮개형, 트레이형, 맞춤형 다이컷 구조까지 실제 출고 환경과 제품 성격에 맞춰 어떤 구조를 고르면 되는지 단계별로 설명합니다.</p></div></a><a class="support-card" href="guide-paper.html"><div class="preview"><img src="assets/guides/guide-paper.png" alt="골판지 종이 선택 가이드 SEO 설명 이미지"></div><div class="body"><h3>종이 선택 가이드</h3><p>표면지와 골심지, 골 높이에 따라 달라지는 발색, 촉감, 압축 강도 차이를 실무 관점에서 비교합니다. 상담 전에 보면 원단 선택이 훨씬 빨라집니다.</p></div></a><a class="support-card" href="guide-process.html"><div class="preview"><img src="assets/guides/guide-process.png" alt="패키지 제작 과정 SEO 설명 이미지"></div><div class="body"><h3>패키지 제작 과정</h3><p>상담, 설계, 샘플, 인쇄, 금형, 가공, 출고까지 박스 제작이 어떤 흐름으로 이어지는지 한눈에 이해할 수 있는 제작 안내 페이지입니다.</p></div></a></div><section class="guide-article"><article class="guide-section"><h3>처음 주문하는 분이 많이 묻는 핵심 질문</h3><div class="guide-feature-list"><div class="guide-feature-item"><h4>어떤 구조가 맞을까요?</h4><p>배송 중 눌림이 걱정되면 일반형과 오버랩 계열을, 진열과 개봉 경험이 중요하면 다이컷이나 덮개형을 먼저 검토하는 것이 좋습니다.</p></div><div class="guide-feature-item"><h4>종이는 왜 이렇게 종류가 많나요?</h4><p>같은 크기의 박스라도 원단 등급과 골 구조가 달라지면 인쇄 결과, 강도, 단가, 전체 인상이 모두 달라집니다.</p></div><div class="guide-feature-item"><h4>견적 전에 무엇이 필요할까요?</h4><p>제품 규격, 예상 수량, 배송 방식, 인쇄 유무, 참고 사진만 준비해도 상담 정확도가 크게 높아집니다.</p></div></div></article><article class="guide-section long-copy"><h3>검색 유입을 위한 실전 안내</h3><p>에스디컴퍼니 고객지원은 단순한 FAQ 모음이 아니라, <strong>골판지 박스 구조</strong>, <strong>박스 원단 선택</strong>, <strong>패키지 제작 공정</strong>처럼 실제 검색되는 질문에 대응하는 설명형 콘텐츠로 구성되어 있습니다. 고객이 “택배박스 구조”, “골판지 종류”, “박스 제작 과정”을 검색했을 때 필요한 정보를 한 페이지에서 연결해서 볼 수 있게 설계한 구조입니다.</p><div class="inline-kws"><span>골판지 박스 구조</span><span>박스 구조 종류</span><span>골판지 종류</span><span>박스 원단 선택</span><span>패키지 제작 공정</span><span>박스 제작 과정</span></div></article><article class="guide-section"><h3>문의 안내</h3><p>현재 고객지원은 게시판 대신 이메일 상담 중심으로 운영됩니다. 구조 추천, 원단 선택, 샘플 가능 여부, 인쇄 방식, 납기 검토가 필요하면 아래 메일로 바로 문의하실 수 있습니다.</p><div class="guide-callout"><strong>문의 메일:</strong> sales@box.re.kr<br>제품 크기, 목표 수량, 사용 목적, 인쇄 유무, 참고 이미지를 함께 보내주시면 검토 속도가 빨라집니다.</div></article></section></div></main><script>mountLayout("support.html")</script></body></html>

diff --git a/styles.css b/styles.css
@@ -1956,3 +1956,31 @@ body.drawer-open{overflow:hidden}
   .search-sidebar .hero-actions{grid-template-columns:repeat(2,minmax(0,1fr)) !important}
   .search-sidebar .hero-actions .btn:last-child{grid-column:1 / -1 !important}
 }
+
+
+/* v41 support content refresh */
+.support-card .preview{height:auto !important;aspect-ratio:16/10;align-items:center !important;padding:16px !important;overflow:visible !important}
+.support-card .preview img{width:100%;height:auto !important;max-height:none !important;object-fit:contain !important;object-position:center center !important;border-radius:18px}
+.support-card .body{min-height:0 !important}
+.support-lead-grid{display:grid;grid-template-columns:1.2fr .8fr;gap:24px;margin:26px 0 30px}
+.support-note{padding:22px;border:1px solid #eee3d0;border-radius:24px;background:linear-gradient(180deg,#fff,#fffaf4);color:#5d6779;line-height:1.8}
+.support-note strong{color:#22324f}
+.guide-feature-list{display:grid;grid-template-columns:repeat(3,1fr);gap:16px;margin-top:18px}
+.guide-feature-item{padding:18px;border:1px solid #eee3d0;border-radius:20px;background:#fff}
+.guide-feature-item h4{margin:0 0 8px;font-size:20px}
+.guide-feature-item p{margin:0;color:var(--muted);line-height:1.7}
+.long-copy{display:grid;gap:18px}
+.faq-accordion{display:grid;gap:12px;margin-top:14px}
+.faq-item{border:1px solid #eadfcf;border-radius:18px;background:#fff;overflow:hidden}
+.faq-item summary{list-style:none;cursor:pointer;padding:18px 20px;font-weight:900;color:#1f2e48;position:relative}
+.faq-item summary::-webkit-details-marker{display:none}
+.faq-item summary::after{content:'+';position:absolute;right:20px;top:16px;font-size:24px;color:#c1702c}
+.faq-item[open] summary::after{content:'−'}
+.faq-item .faq-body{padding:0 20px 18px;color:var(--muted);line-height:1.8}
+.seo-block{padding:22px;border-radius:22px;background:linear-gradient(180deg,#fffefc,#fff7ea);border:1px solid #f0dfbf}
+.seo-block h4{margin:0 0 10px;font-size:22px}
+.seo-block p{margin:0;color:var(--muted);line-height:1.85}
+.inline-kws{display:flex;flex-wrap:wrap;gap:10px;margin-top:14px}
+.inline-kws span{padding:8px 12px;border-radius:999px;background:#fff;border:1px solid #eadfcf;font-size:13px;font-weight:700;color:#5f6d84}
+@media (max-width:1100px){.support-lead-grid,.guide-feature-list{grid-template-columns:1fr}}
+@media (max-width:720px){.support-card .preview{aspect-ratio:4/3}.support-note,.seo-block{padding:18px}.faq-item summary{padding:16px 18px}}
